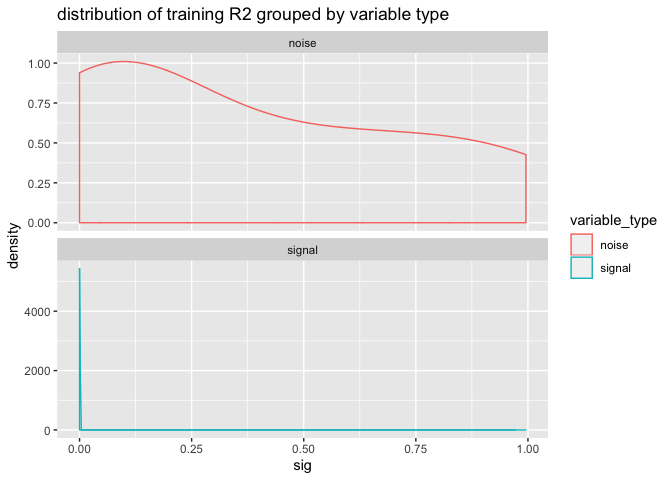
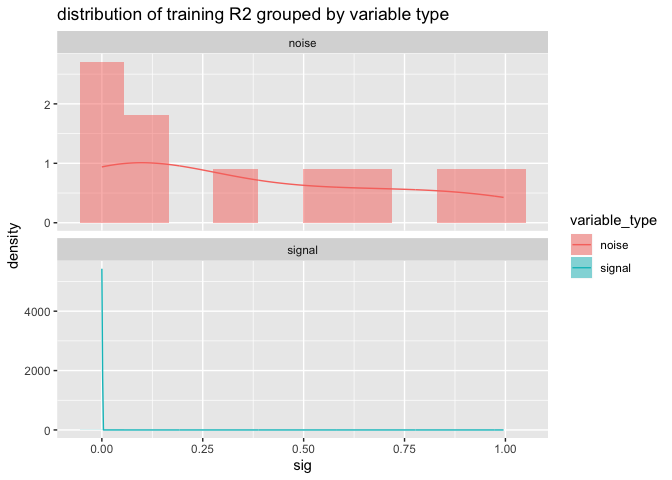
improve graphs

diff --git a/Examples/CrossVal/LeakTradeOff/CrossFrameExample.md b/Examples/CrossVal/LeakTradeOff/CrossFrameExample.md
@@ -124,16 +124,10 @@ knitr::kable(sf[, cols_to_display, drop = FALSE])
 
 sf$variable_type = gsub("_.*$", "", sf$origName)
 
-# (doesn't work, due to ggplot2 issue)
-# ggplot(data = sf,
-#        aes(x = sig, color = variable_type)) +
-#   geom_density() + 
-#   scale_y_log10() +
-#   ggtitle("distribution of training R2 grouped by variable type\n(log y scale)")
-
 ggplot(data = sf,
-       aes(x = sig, color = variable_type)) +
-  geom_density() +
+       aes(x = sig, fill = variable_type)) +
+  geom_histogram(aes(y = ..density..), bins = 10, alpha = 0.5) + 
+  geom_line(aes(y = ..density.., color = variable_type), stat = 'density') + 
   facet_wrap( ~ variable_type, ncol = 1, scale = 'free_y') +
   ggtitle("distribution of training R2 grouped by variable type")
 ```
